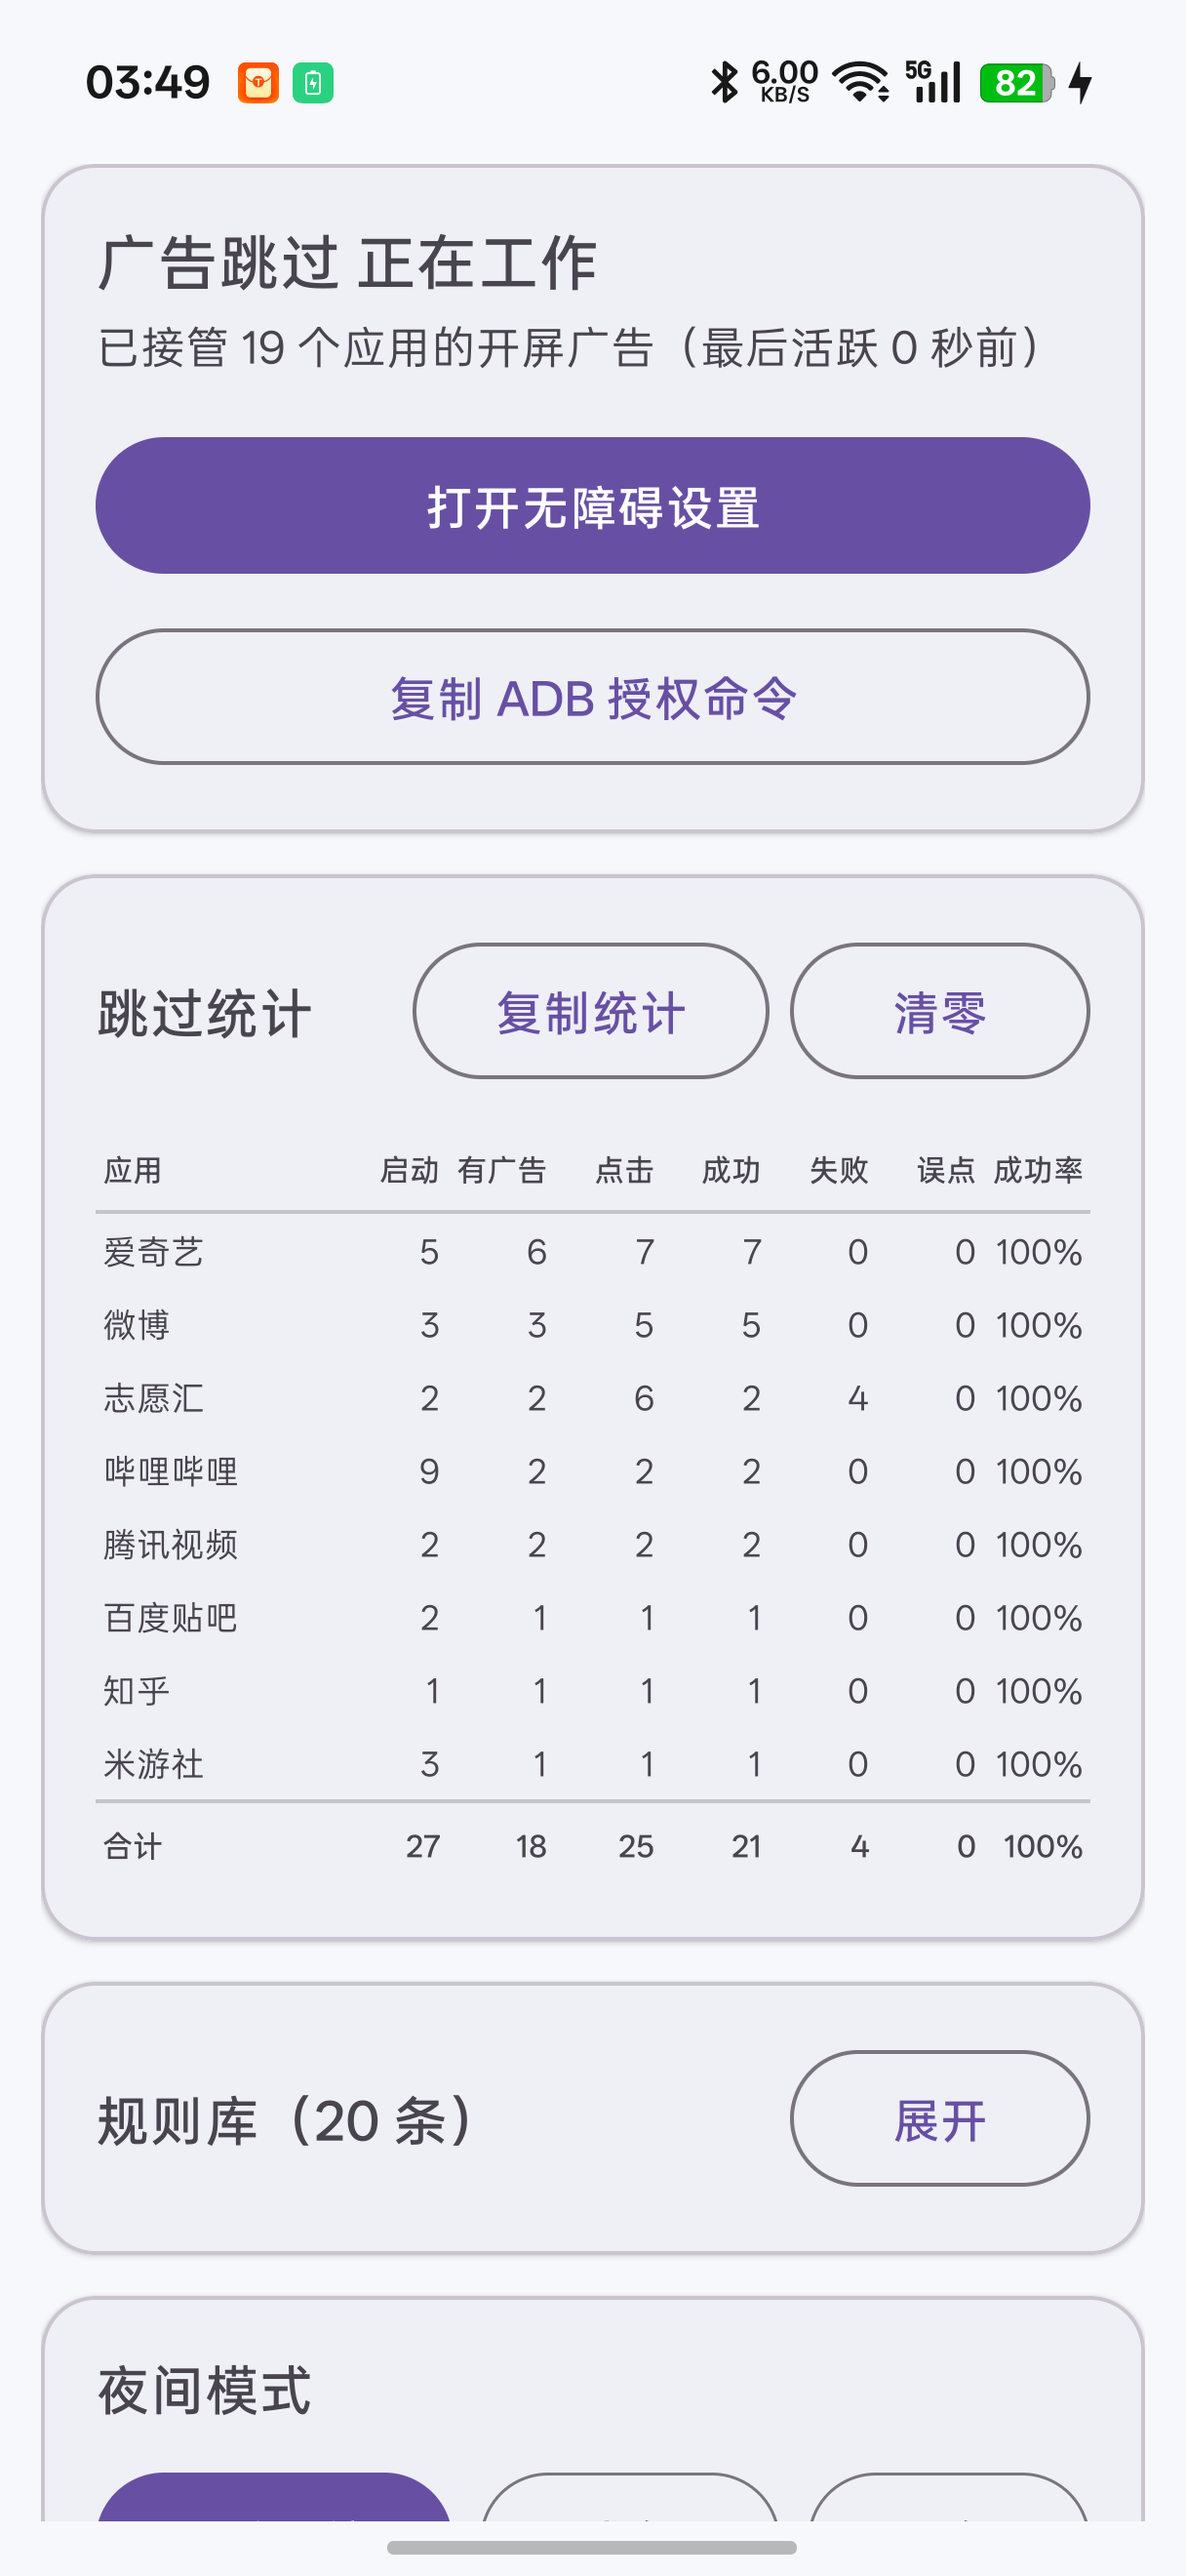
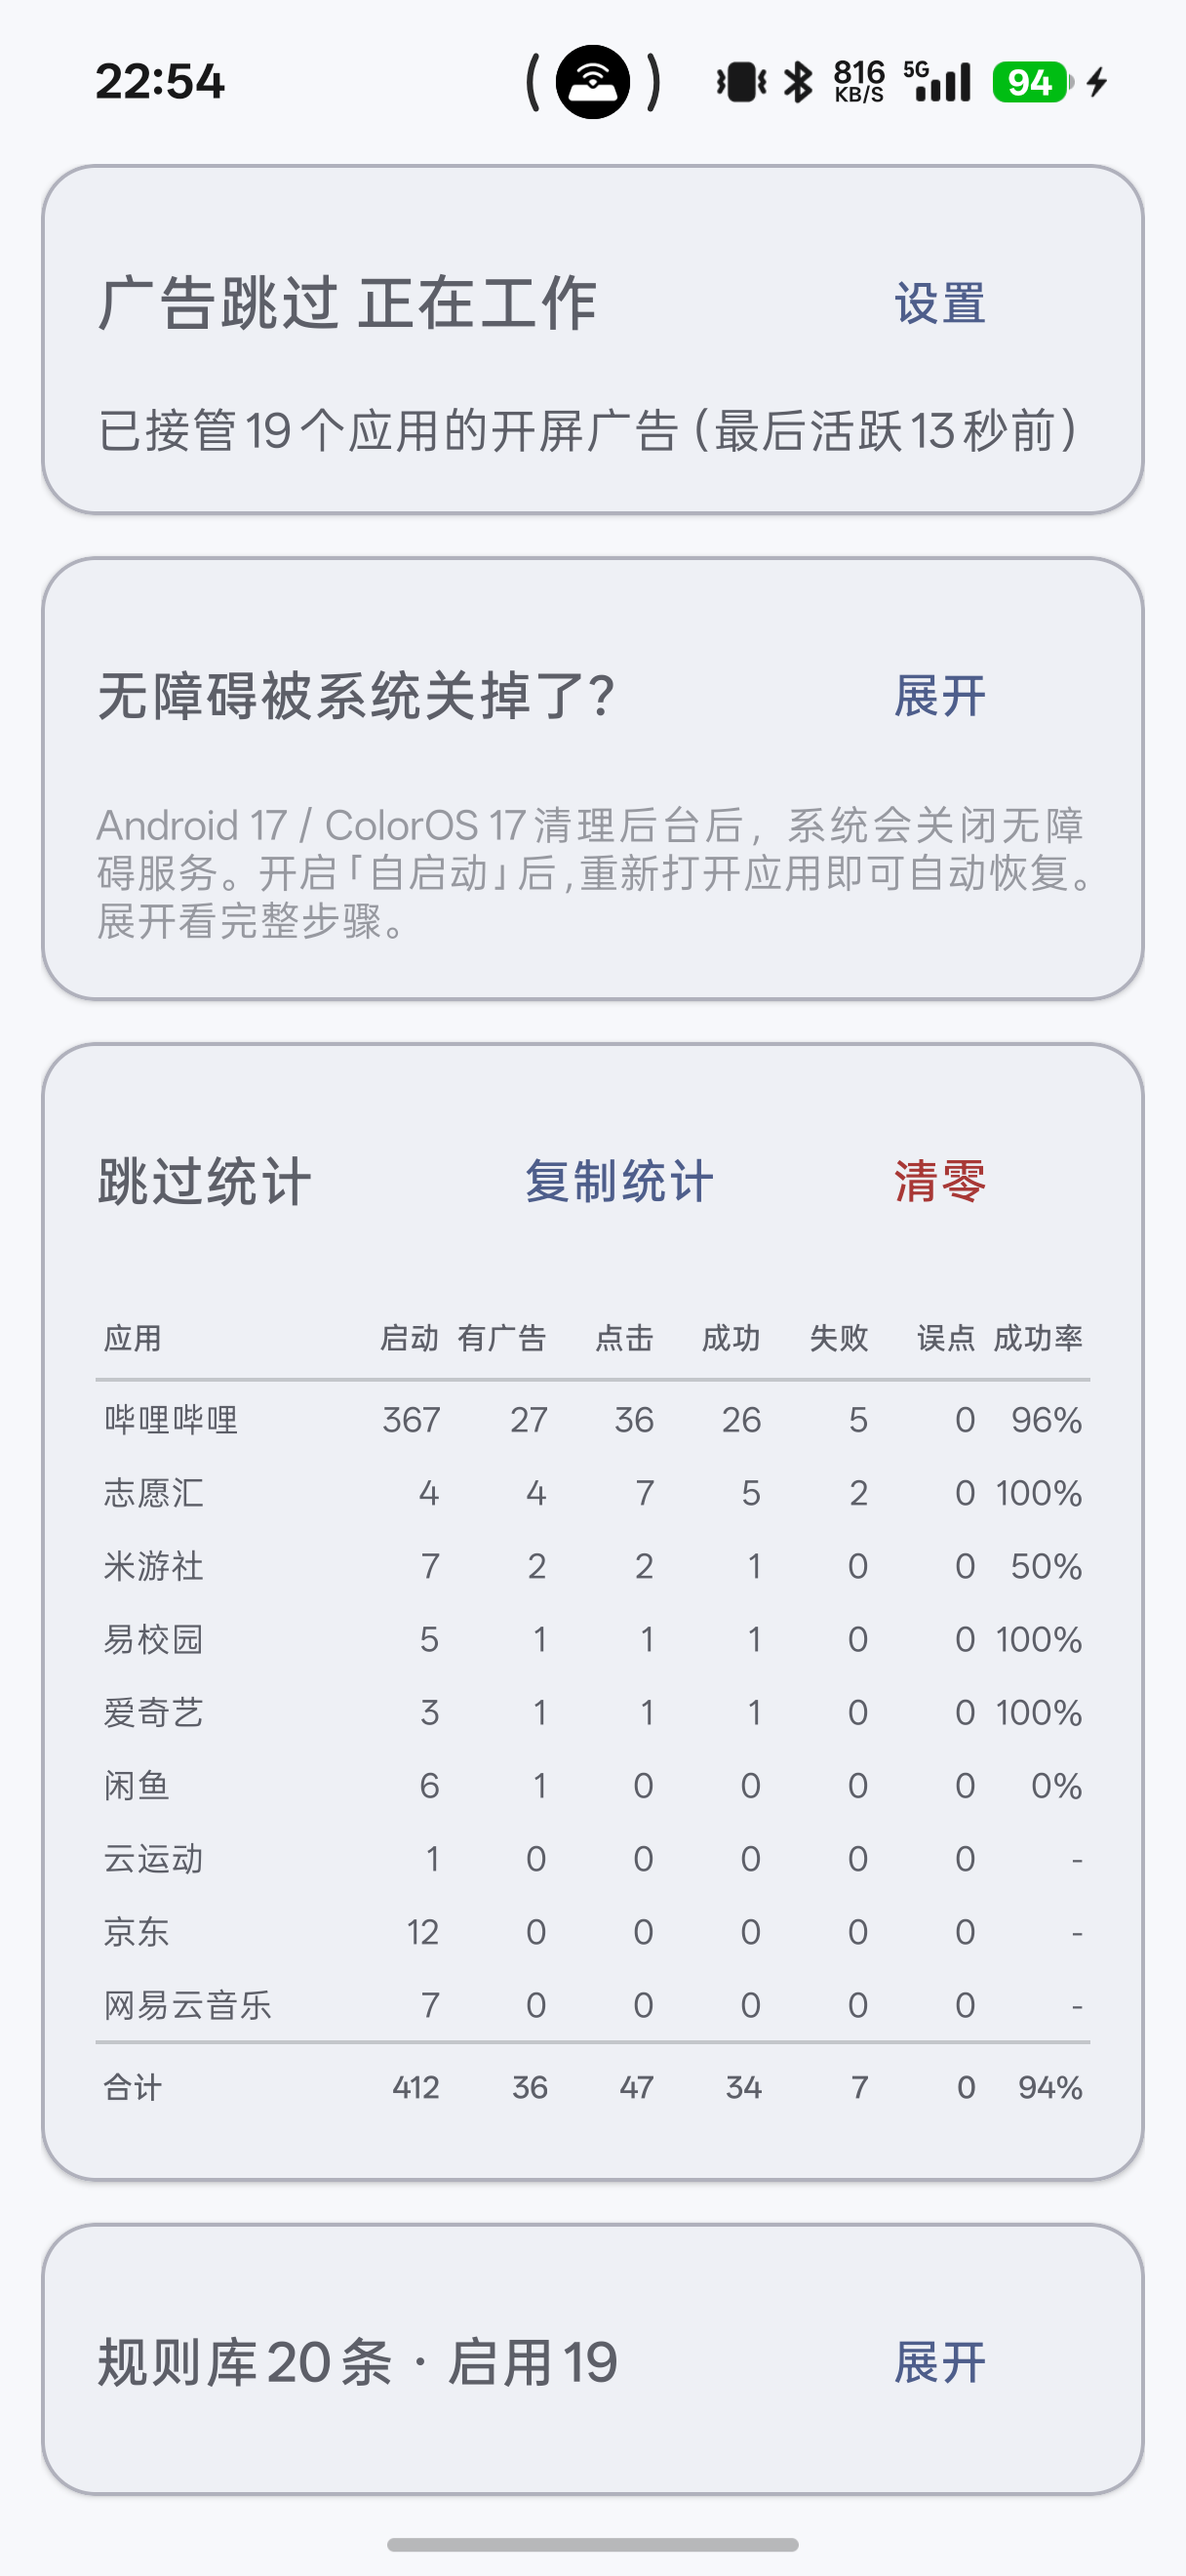
docs: 更新 README/F-Droid 截图（2026-11 当前 UI）+ 修正 F-Droid 说明
- fastlane/.../phoneScreenshots/1~3.png 重截为当前界面：
  1) 主界面：服务状态「正在工作」+ 已接管 19 个应用 + 帮助卡 + 统计；
  2) 统计：完整表格 + 规则库「20 条 · 启用 19」+ 设置与调试入口；
  3) 深色模式：状态/帮助/统计整屏。
  均为 1216×2640 PNG，替换 P1/P2 之前（6 卡片、紫色按钮）的旧图。
- docs/fdroid-submission.md：截图条目注明 2026-11-18 随 UI 改版重截；
  MR 文本里"截图还没放进 fastlane"的旧说法改为已包含（zh-CN，en-US 回退）；
  单测数 135 → 176。

diff --git a/docs/fdroid-submission.md b/docs/fdroid-submission.md
@@ -9,7 +9,7 @@
 |---|---|---|
 | 1 | **Application ID 改不改** | 政策原文用的是 **`It is advised to`**（建议）而不是 `must` —— 同页"唯一性"那条才用 `must`。所以 `io.github.adskip` 与账号 `ccttrr123` 不一致只是**建议性偏差**，不构成自动拒绝。**建议保持不变**（改 ID 会让已安装的应用变成"另一个应用"，统计与无障碍设置都要重来）。 |
 | 2 | **AuthorName** | 下面 yml 里暂填 `ccttrr123`（GitHub handle，不含个人信息）。想换就改这一行。 |
-| 3 | **截图** | ✅ **已备齐**（2026-10-17 03:50 补，见提交 `6990547`）。`fastlane/metadata/android/zh-CN/images/phoneScreenshots/` 下 1~3.png，各 1216×2640（主界面 / 统计 / 深色模式），**就在本仓库内** —— 位置正合政策要求（必须在应用自己的仓库，**不能**放进 fdroiddata）。<br>⚠ 只做了 **zh-CN** 一套；政策不要求每个 locale 都有图，`en-US` 缺图时回退用 zh-CN 那套 ✓。想给 en-US 单独一套再补即可。 |
+| 3 | **截图** | ✅ **已备齐**（2026-10-17 03:50 初版；2026-11-18 随 UI 改版重截）。`fastlane/metadata/android/zh-CN/images/phoneScreenshots/` 下 1~3.png，各 1216×2640（主界面 / 统计 / 深色模式），**就在本仓库内** —— 位置正合政策要求（必须在应用自己的仓库，**不能**放进 fdroiddata）。<br>⚠ 只做了 **zh-CN** 一套；政策不要求每个 locale 都有图，`en-US` 缺图时回退用 zh-CN 那套 ✓。想给 en-US 单独一套再补即可。 |
 
 另外**提交前必须做的一步**：把 yml 里的 `commit:` 占位符换成真实哈希 —— `git rev-list -n1 v0.1.0`。
 
@@ -169,11 +169,12 @@ AccessibilityService-based, in the repo since 2022, no AntiFeatures) and
 2. Whether the maintainers would like an explicit note about the accessibility
    service in the app description text (F-Droid controls the description
    through `fastlane/` upstream, so I can amend it there).
-3. Screenshots are not yet in the upstream `fastlane/.../images/` directory; I
-   will add them upstream (not in this repo) in the next release.
+3. Screenshots are included in the upstream `fastlane/metadata/android/zh-CN/images/phoneScreenshots/`
+   directory (1.png–3.png, 1216×2640, refreshed 2026-11-18 with the current UI); en-US can fall back
+   to the zh-CN set.
 
 <!-- 可选：关于"活跃开发 3 个月"门槛的主动说明。要用就取消注释并粘进 MR（见第四节）：
-The app's functionality is implemented, tested (135 unit tests) and verified on 15 real apps. The upstream git history is short — the code was written over roughly two days of work — so if the "actively developed for at least 3 months" criterion applies strictly, I would appreciate guidance on whether to wait, or whether the criterion is waived in this case.
+The app's functionality is implemented, tested (176 unit tests) and verified on 15 real apps. The upstream git history is short — the code was written over roughly two days of work — so if the "actively developed for at least 3 months" criterion applies strictly, I would appreciate guidance on whether to wait, or whether the criterion is waived in this case.
 -->
 ````
 
